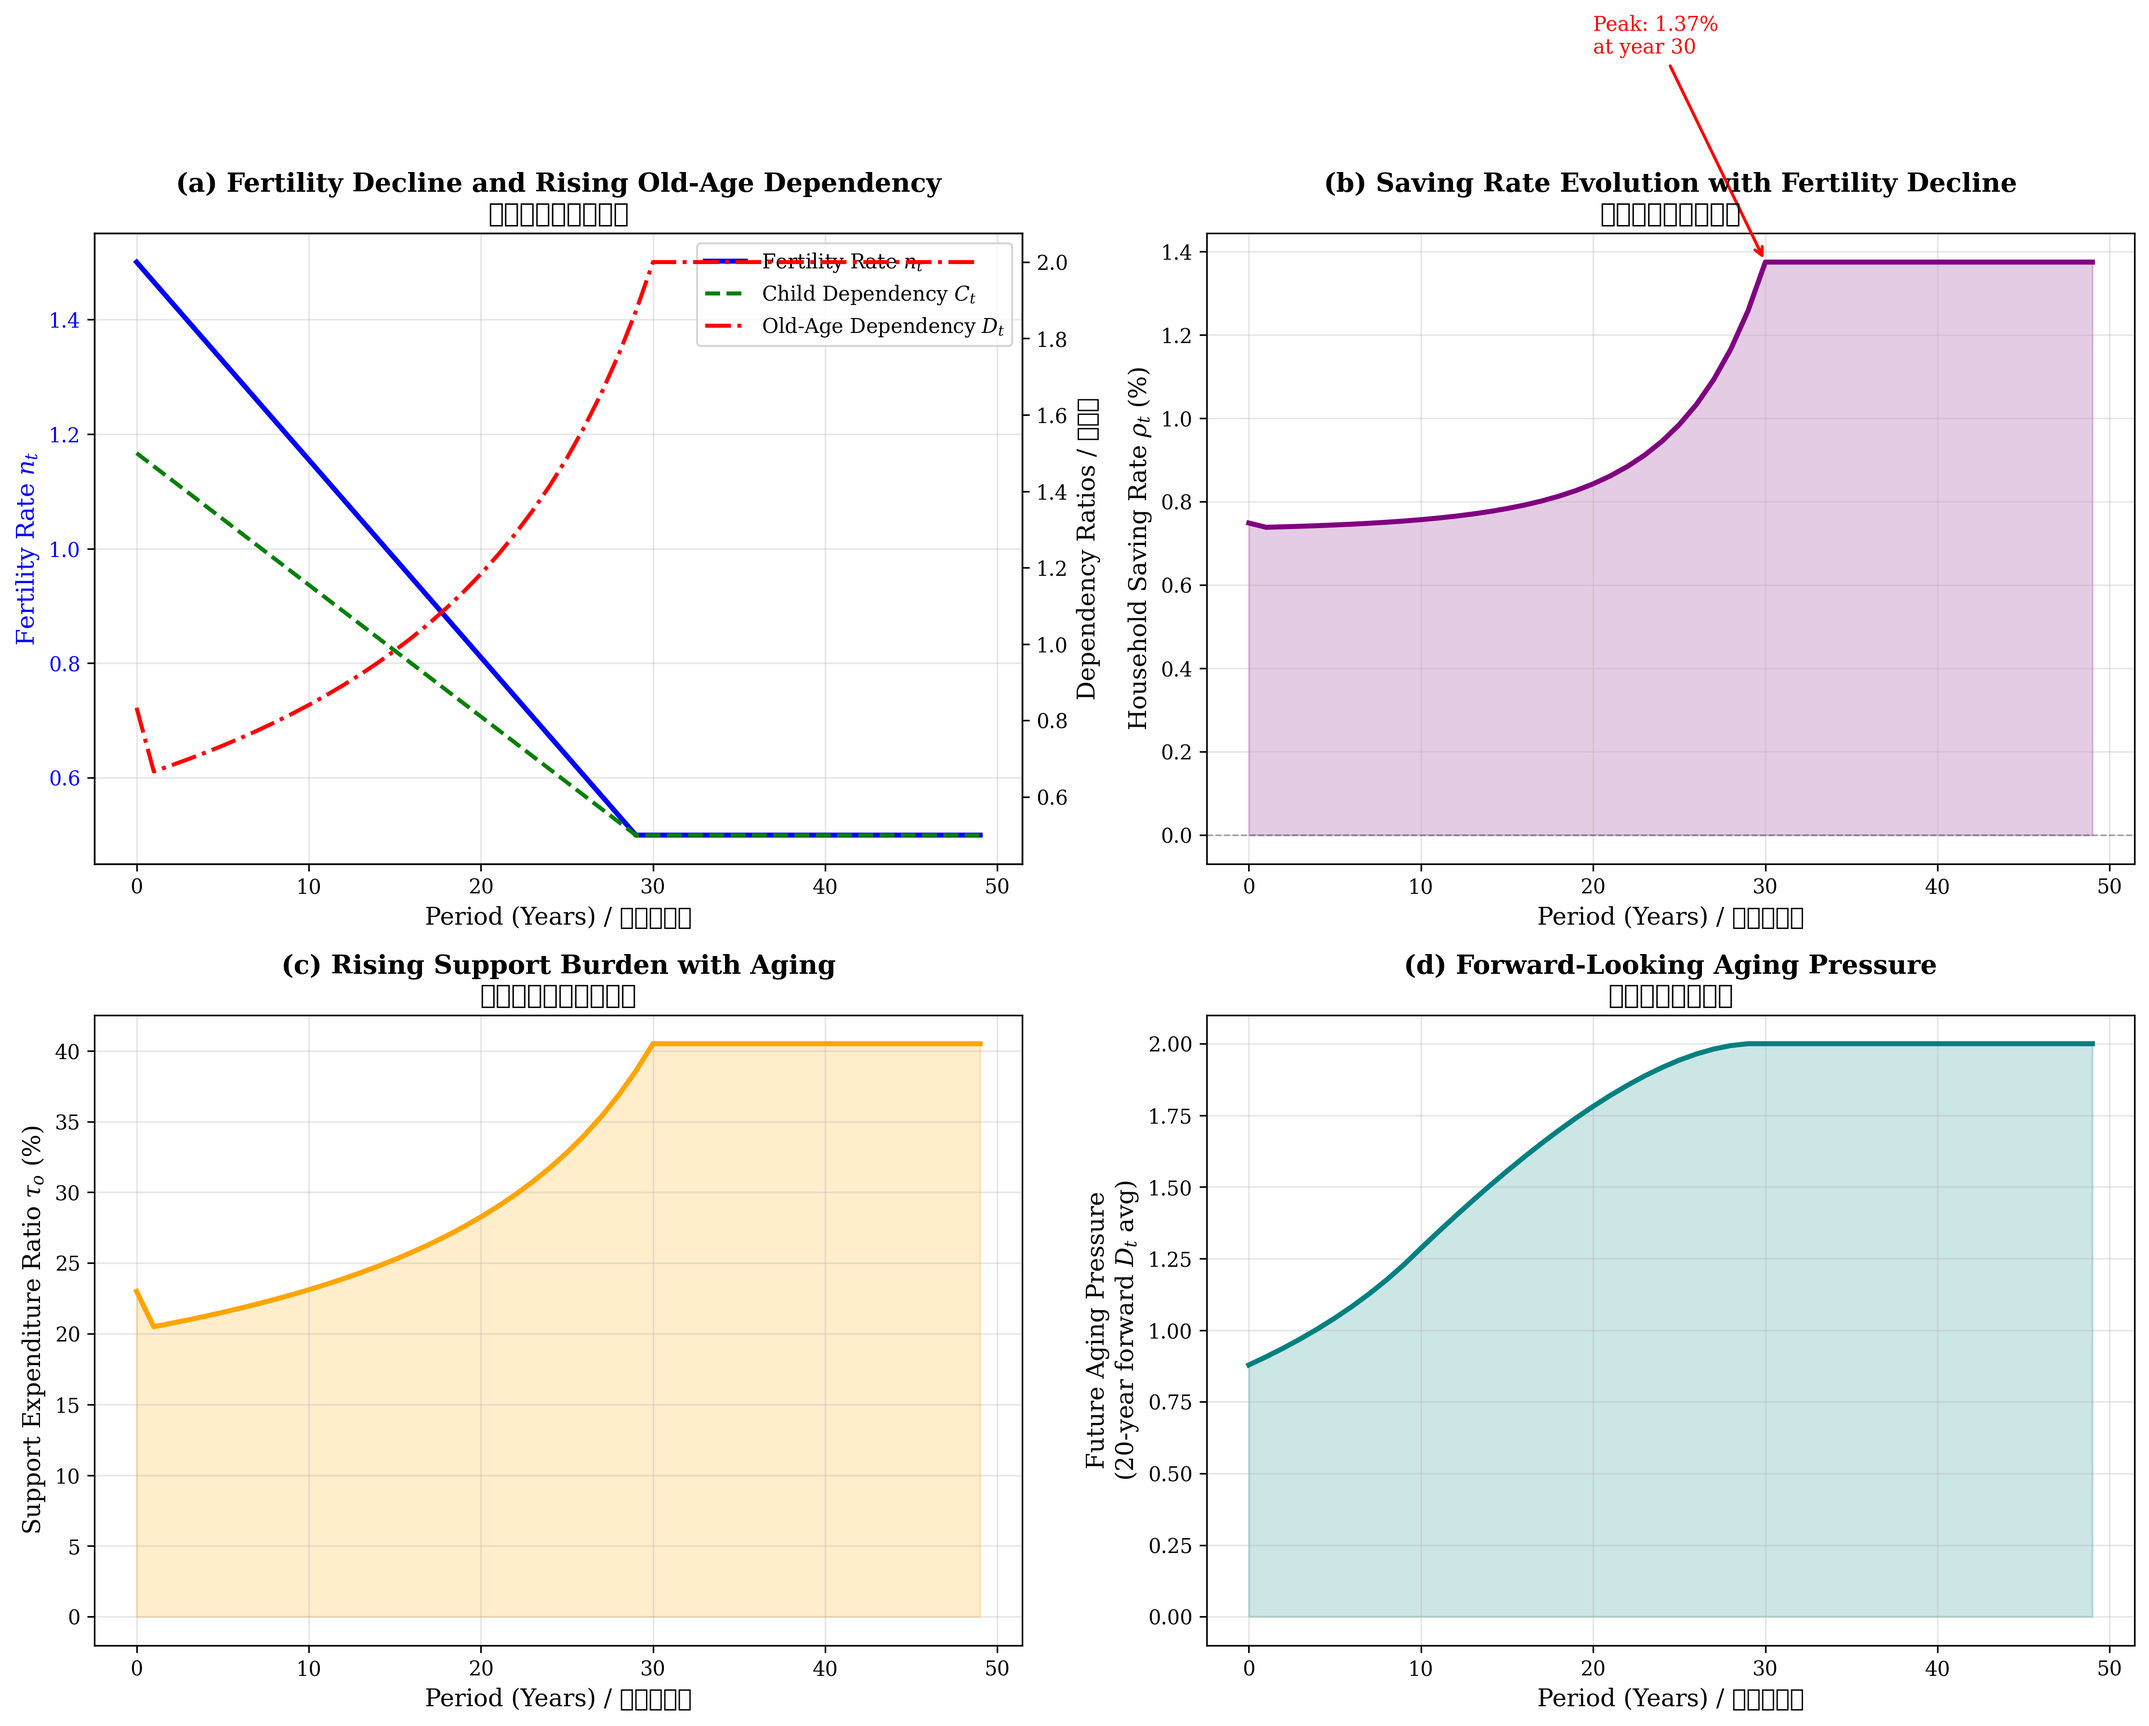
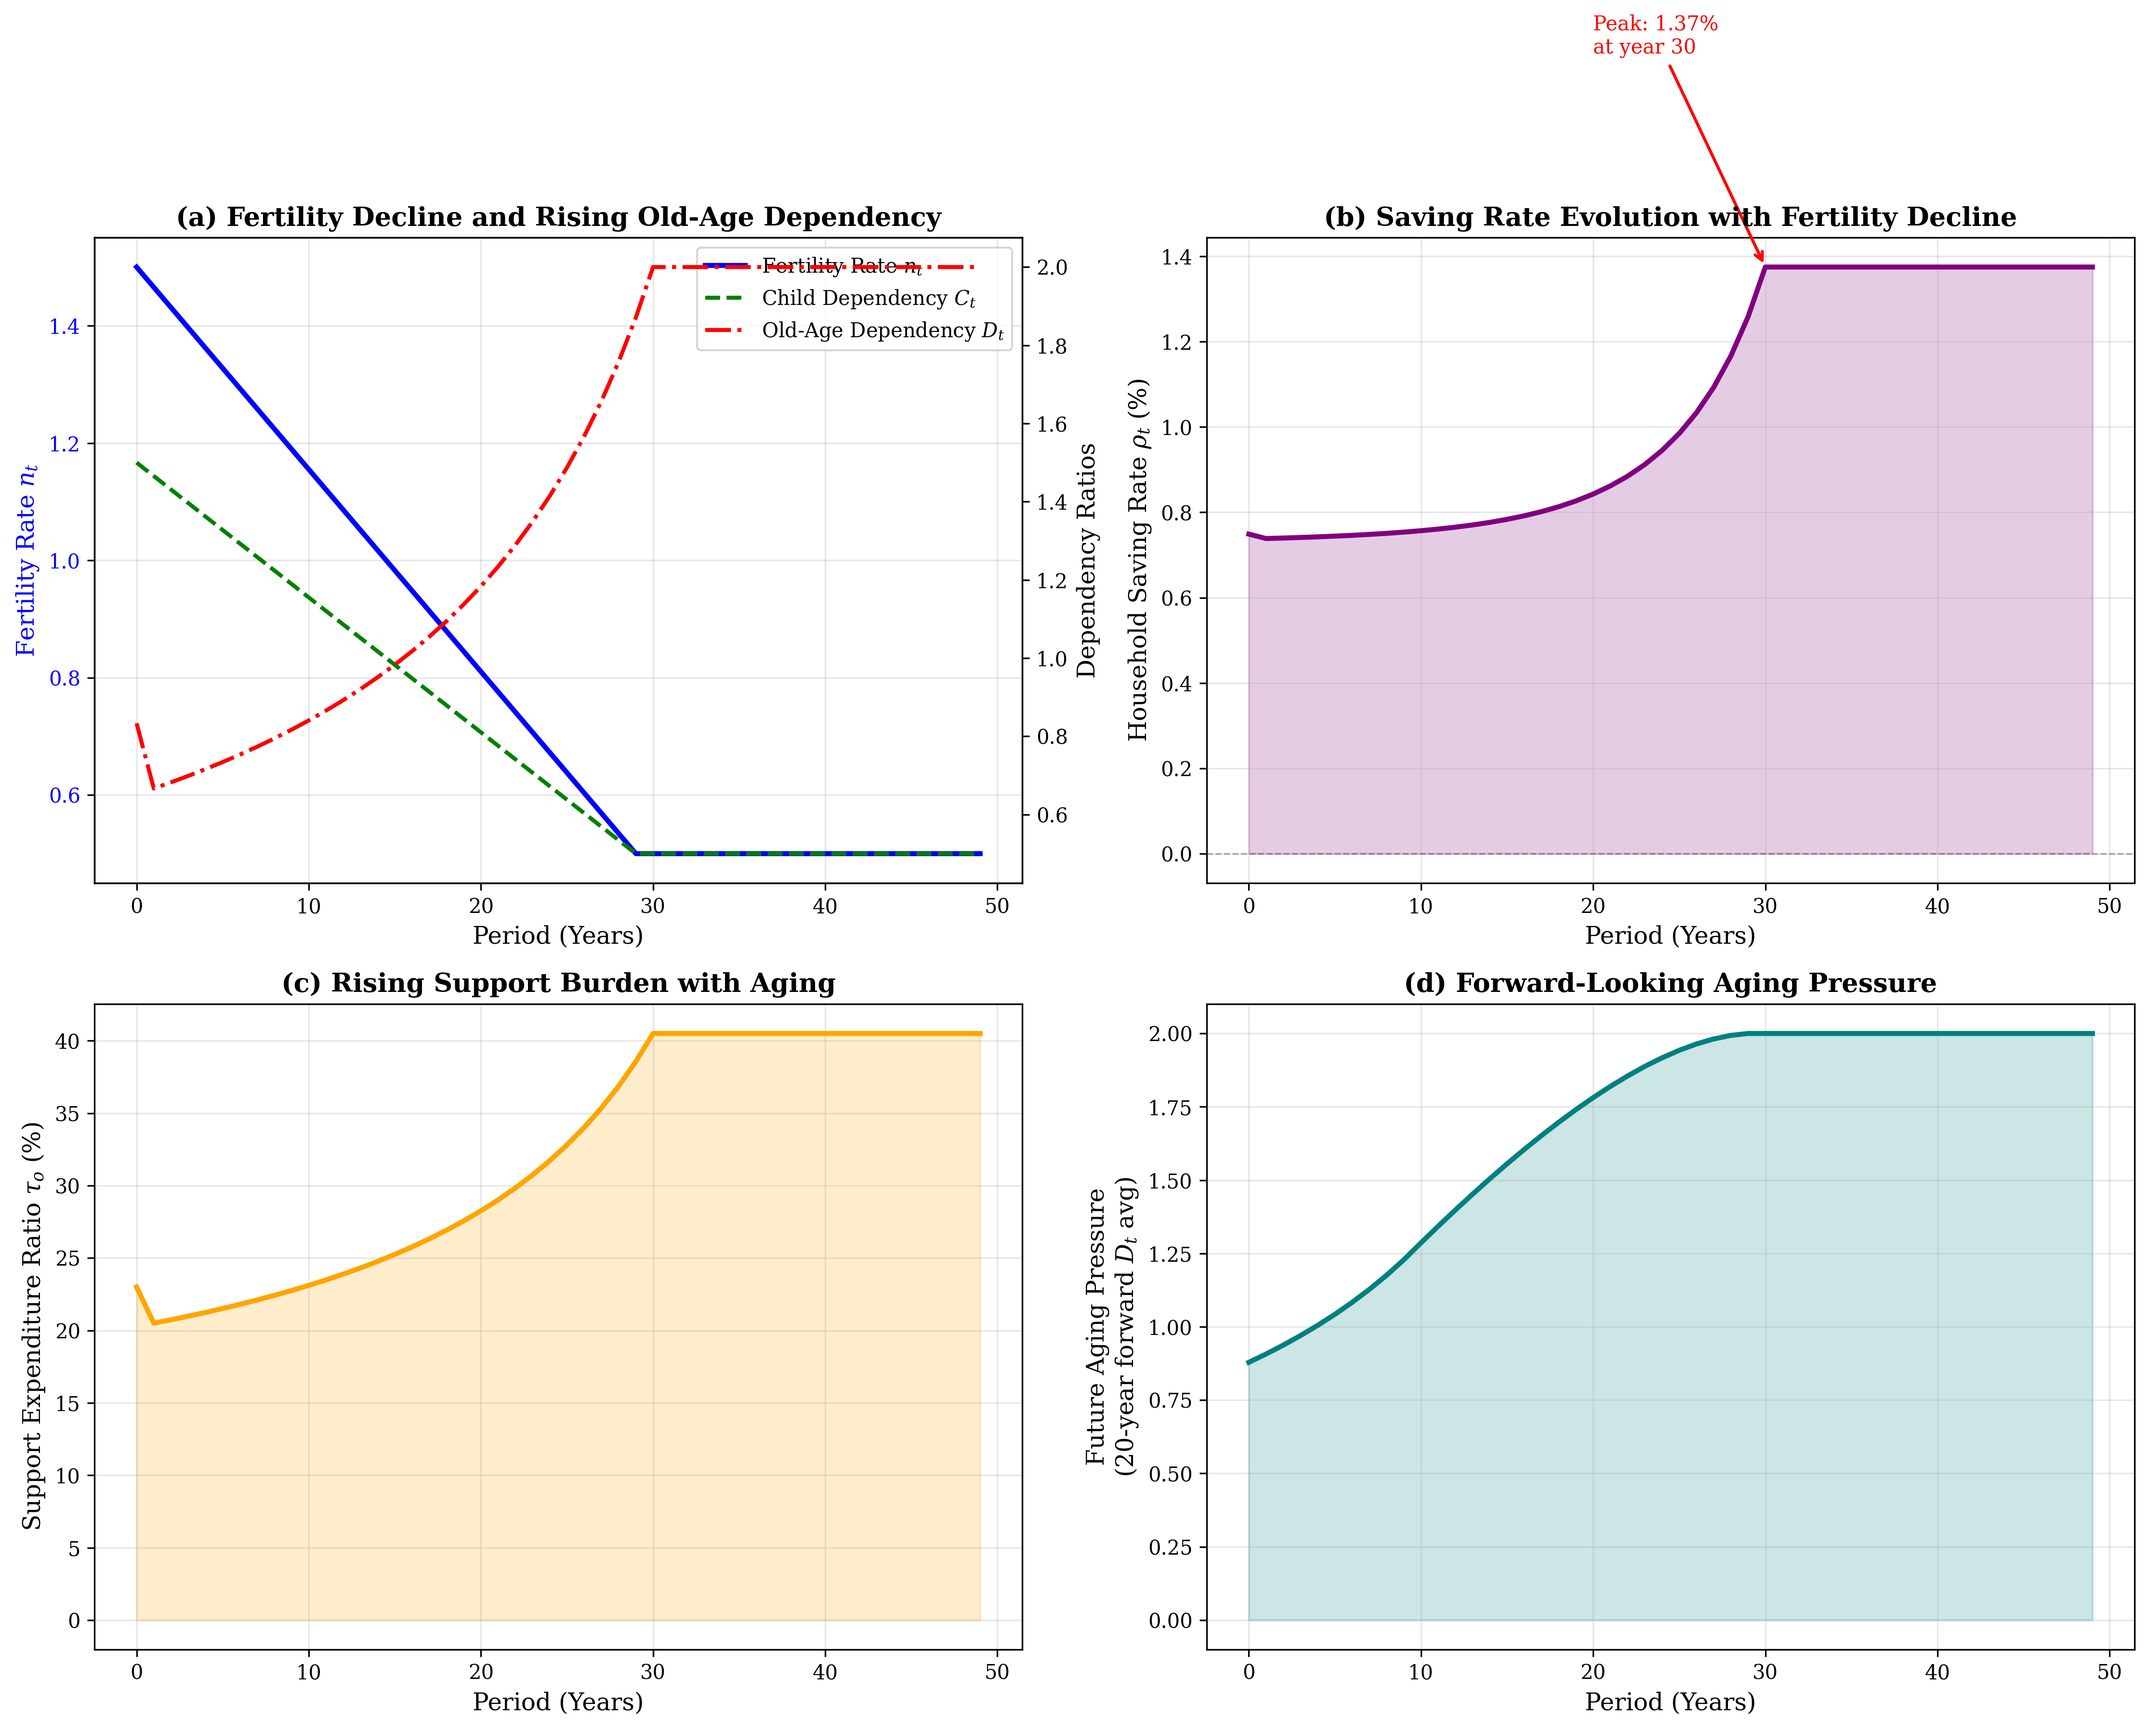
Fix: Remove all Chinese text from figures 4 and 5
Changed all labels, titles, and annotations to English-only to avoid encoding issues. Updated:
- Figure 4: Fertility decline simulation labels
- Figure 5: AI labor substitution simulation labels
- All x-axis, y-axis labels now English only
- Removed bilingual text from annotations

diff --git a/model_simulation.py b/model_simulation.py
@@ -681,10 +681,10 @@ def plot_fertility_decline_aging(df_fert):
     line2 = ax1_2.plot(df_fert['period'], df_fert['child_dependency'], 'g--', linewidth=2, label='Child Dependency $C_t$')
     line3 = ax1_2.plot(df_fert['period'], df_fert['old_dependency'], 'r-.', linewidth=2, label='Old-Age Dependency $D_t$')
 
-    ax1_1.set_xlabel('Period (Years) / 时期（年）', fontsize=12)
+    ax1_1.set_xlabel('Period (Years)', fontsize=12)
     ax1_1.set_ylabel('Fertility Rate $n_t$', fontsize=12, color='b')
-    ax1_2.set_ylabel('Dependency Ratios / 抚养比', fontsize=12, color='black')
-    ax1_1.set_title('(a) Fertility Decline and Rising Old-Age Dependency\n少子化与老龄化加剧', fontsize=13, fontweight='bold')
+    ax1_2.set_ylabel('Dependency Ratios', fontsize=12, color='black')
+    ax1_1.set_title('(a) Fertility Decline and Rising Old-Age Dependency', fontsize=13, fontweight='bold')
     ax1_1.tick_params(axis='y', labelcolor='b')
 
     lines = line1 + line2 + line3
@@ -695,9 +695,9 @@ def plot_fertility_decline_aging(df_fert):
     # Subplot 2: Saving rate evolution
     axes[0, 1].plot(df_fert['period'], df_fert['saving_rate']*100, 'purple', linewidth=2.5)
     axes[0, 1].fill_between(df_fert['period'], 0, df_fert['saving_rate']*100, alpha=0.2, color='purple')
-    axes[0, 1].set_xlabel('Period (Years) / 时期（年）', fontsize=12)
+    axes[0, 1].set_xlabel('Period (Years)', fontsize=12)
     axes[0, 1].set_ylabel('Household Saving Rate $\\rho_t$ (%)', fontsize=12)
-    axes[0, 1].set_title('(b) Saving Rate Evolution with Fertility Decline\n储蓄率随少子化演变', fontsize=13, fontweight='bold')
+    axes[0, 1].set_title('(b) Saving Rate Evolution with Fertility Decline', fontsize=13, fontweight='bold')
     axes[0, 1].grid(True, alpha=0.3)
     axes[0, 1].axhline(y=0, color='black', linestyle='--', linewidth=0.8, alpha=0.3)
 
@@ -713,17 +713,17 @@ def plot_fertility_decline_aging(df_fert):
     # Subplot 3: Support burden evolution
     axes[1, 0].plot(df_fert['period'], df_fert['support_burden']*100, 'orange', linewidth=2.5)
     axes[1, 0].fill_between(df_fert['period'], 0, df_fert['support_burden']*100, alpha=0.2, color='orange')
-    axes[1, 0].set_xlabel('Period (Years) / 时期（年）', fontsize=12)
+    axes[1, 0].set_xlabel('Period (Years)', fontsize=12)
     axes[1, 0].set_ylabel('Support Expenditure Ratio $\\tau_o$ (%)', fontsize=12)
-    axes[1, 0].set_title('(c) Rising Support Burden with Aging\n赡养负担随老龄化上升', fontsize=13, fontweight='bold')
+    axes[1, 0].set_title('(c) Rising Support Burden with Aging', fontsize=13, fontweight='bold')
     axes[1, 0].grid(True, alpha=0.3)
 
     # Subplot 4: Future aging pressure
     axes[1, 1].plot(df_fert['period'], df_fert['future_aging_pressure'], 'teal', linewidth=2.5)
     axes[1, 1].fill_between(df_fert['period'], 0, df_fert['future_aging_pressure'], alpha=0.2, color='teal')
-    axes[1, 1].set_xlabel('Period (Years) / 时期（年）', fontsize=12)
+    axes[1, 1].set_xlabel('Period (Years)', fontsize=12)
     axes[1, 1].set_ylabel('Future Aging Pressure\n(20-year forward $D_t$ avg)', fontsize=12)
-    axes[1, 1].set_title('(d) Forward-Looking Aging Pressure\n前瞻性老龄化压力', fontsize=13, fontweight='bold')
+    axes[1, 1].set_title('(d) Forward-Looking Aging Pressure', fontsize=13, fontweight='bold')
     axes[1, 1].grid(True, alpha=0.3)
 
     plt.tight_layout()
@@ -746,9 +746,9 @@ def plot_ai_labor_substitution(df_ai):
     ax1.fill_between(df_ai['ai_adoption'], df_ai['labor_income_share']*100,
                      (df_ai['labor_income_share'] + df_ai['capital_income_share'])*100,
                      alpha=0.6, color='#ff7f0e', label='Capital Income Share')
-    ax1.set_xlabel('AI Adoption Rate $\\alpha_{AI}$ (%)\nAI应用率', fontsize=12)
-    ax1.set_ylabel('Income Share (%) / 收入份额', fontsize=12)
-    ax1.set_title('(a) Income Composition with AI Development\nAI发展下的收入构成变化', fontsize=13, fontweight='bold')
+    ax1.set_xlabel('AI Adoption Rate $\\alpha_{AI}$ (%)', fontsize=12)
+    ax1.set_ylabel('Income Share (%)', fontsize=12)
+    ax1.set_title('(a) Income Composition with AI Development', fontsize=13, fontweight='bold')
     ax1.legend(fontsize=11, loc='right')
     ax1.grid(True, alpha=0.3)
 
@@ -759,10 +759,10 @@ def plot_ai_labor_substitution(df_ai):
     line1 = ax2_1.plot(df_ai['ai_adoption'], df_ai['disposable_income'], 'b-', linewidth=2.5, label='Disposable Income $Y_d$')
     line2 = ax2_2.plot(df_ai['ai_adoption'], df_ai['employment_rate']*100, 'r--', linewidth=2.5, label='Employment Rate (%)')
 
-    ax2_1.set_xlabel('AI Adoption Rate $\\alpha_{AI}$ (%)\nAI应用率', fontsize=12)
+    ax2_1.set_xlabel('AI Adoption Rate $\\alpha_{AI}$ (%)', fontsize=12)
     ax2_1.set_ylabel('Household Disposable Income $Y_d$', fontsize=12, color='b')
-    ax2_2.set_ylabel('Employment Rate (%) / 就业率', fontsize=12, color='r')
-    ax2_1.set_title('(b) Income Loss and Employment Decline\n收入损失与就业下降', fontsize=13, fontweight='bold')
+    ax2_2.set_ylabel('Employment Rate (%)', fontsize=12, color='r')
+    ax2_1.set_title('(b) Income Loss and Employment Decline', fontsize=13, fontweight='bold')
     ax2_1.tick_params(axis='y', labelcolor='b')
     ax2_2.tick_params(axis='y', labelcolor='r')
 
@@ -774,9 +774,9 @@ def plot_ai_labor_substitution(df_ai):
     # Subplot 3: Saving rate decline
     axes[1, 0].plot(df_ai['ai_adoption'], df_ai['saving_rate']*100, 'purple', linewidth=3, marker='o', markersize=4)
     axes[1, 0].fill_between(df_ai['ai_adoption'], 0, df_ai['saving_rate']*100, alpha=0.2, color='purple')
-    axes[1, 0].set_xlabel('AI Adoption Rate $\\alpha_{AI}$ (%)\nAI应用率', fontsize=12)
+    axes[1, 0].set_xlabel('AI Adoption Rate $\\alpha_{AI}$ (%)', fontsize=12)
     axes[1, 0].set_ylabel('Household Saving Rate $\\rho_t$ (%)', fontsize=12)
-    axes[1, 0].set_title('(c) Declining Saving Rate with AI Substitution\n储蓄率随AI替代下降', fontsize=13, fontweight='bold')
+    axes[1, 0].set_title('(c) Declining Saving Rate with AI Substitution', fontsize=13, fontweight='bold')
     axes[1, 0].grid(True, alpha=0.3)
     axes[1, 0].axhline(y=0, color='black', linestyle='--', linewidth=0.8, alpha=0.3)
 
@@ -784,21 +784,21 @@ def plot_ai_labor_substitution(df_ai):
     initial_rate = df_ai.loc[0, 'saving_rate'] * 100
     final_rate = df_ai.loc[len(df_ai)-1, 'saving_rate'] * 100
     decline = initial_rate - final_rate
-    axes[1, 0].text(0.6, 0.95, f'Total Decline: {decline:.2f}pp\n总下降: {decline:.2f}个百分点',
+    axes[1, 0].text(0.6, 0.95, f'Total Decline: {decline:.2f}pp',
                     transform=axes[1, 0].transAxes, fontsize=11, verticalalignment='top',
                     bbox=dict(boxstyle='round', facecolor='yellow', alpha=0.3))
 
     # Subplot 4: AI care assistance benefit
     axes[1, 1].plot(df_ai['ai_adoption'], df_ai['care_time'], 'teal', linewidth=2.5)
     axes[1, 1].fill_between(df_ai['ai_adoption'], 0, df_ai['care_time'], alpha=0.2, color='teal')
-    axes[1, 1].set_xlabel('AI Adoption Rate $\\alpha_{AI}$ (%)\nAI应用率', fontsize=12)
+    axes[1, 1].set_xlabel('AI Adoption Rate $\\alpha_{AI}$ (%)', fontsize=12)
     axes[1, 1].set_ylabel('Care Time Requirement $\\tau_o^{time}$', fontsize=12)
-    axes[1, 1].set_title('(d) AI Elderly Care Assistance (Partial Offset)\nAI助老服务（部分抵消）', fontsize=13, fontweight='bold')
+    axes[1, 1].set_title('(d) AI Elderly Care Assistance (Partial Offset)', fontsize=13, fontweight='bold')
     axes[1, 1].grid(True, alpha=0.3)
 
     # Add annotation
     care_reduction = (df_ai.loc[0, 'care_time'] - df_ai.loc[len(df_ai)-1, 'care_time']) / df_ai.loc[0, 'care_time'] * 100
-    axes[1, 1].text(0.6, 0.95, f'Care Time Reduction: {care_reduction:.1f}%\n照料时间减少: {care_reduction:.1f}%',
+    axes[1, 1].text(0.6, 0.95, f'Care Time Reduction: {care_reduction:.1f}%',
                     transform=axes[1, 1].transAxes, fontsize=11, verticalalignment='top',
                     bbox=dict(boxstyle='round', facecolor='lightblue', alpha=0.3))
 
